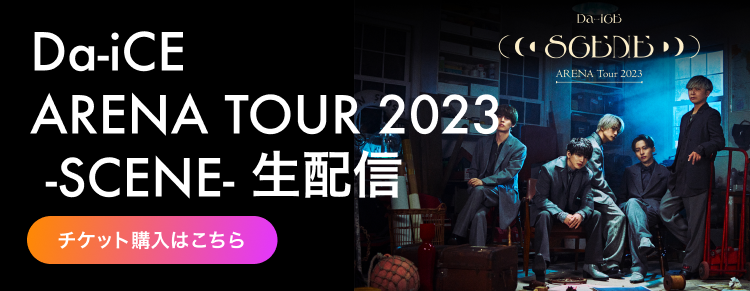
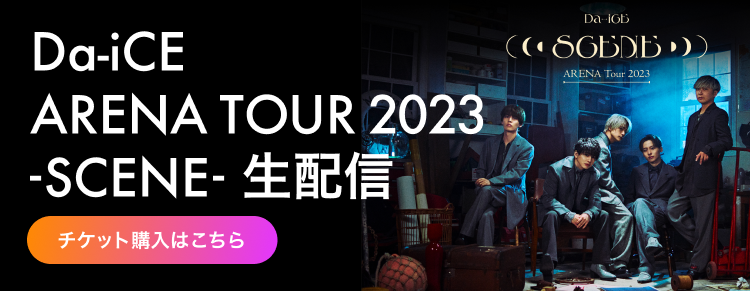
デザイン調整

Changed region(s): [[0.0307, 0.1237, 1.0, 1.0], [0.7667, 0.0309, 0.8587, 0.0928], [0.46, 0.2474, 0.4907, 0.2784]]

diff --git a/pasch/purchase.html b/pasch/purchase.html
@@ -105,7 +105,7 @@
               <a class="button" href="#ticketlist">チケットを購入する</a>
             </div>
           </div>
-          <div class="subcontents">
+          <div class="subcontents section-ticket">
             <div class="subcontents__inner">
               <h2 class="subcontents__title2">【「Da-iCE ARENA TOUR 2023 -SCENE-」 オンライン生配信 概要】</h2>
               <h3 class="subcontents__title__h3">オンライン生配信 対象公演(開場時間/開演時間)</h3>

diff --git a/pasch/static/front/css/style.css b/pasch/static/front/css/style.css
@@ -3563,6 +3563,11 @@ margin-bottom: 0;
   line-height: 1.5;
 }
 
+.contentsaftertalk {
+  max-width: 726px;
+  margin: 0 auto;
+}
+
 .contentsaftertalk__ticket {
   margin-top: 40px;
 }
@@ -3626,4 +3631,14 @@ margin-bottom: 0;
   display: inline-block;
   width: 100%;
   max-width: 375px;
+}
+
+.section-ticket {
+  max-width: 726px;
+  margin: 0 auto;
+}
+
+.section-ticket .subcontents__title2,
+.contentsaftertalk .subcontents__title2 {
+  font-size: 22px;
 }
